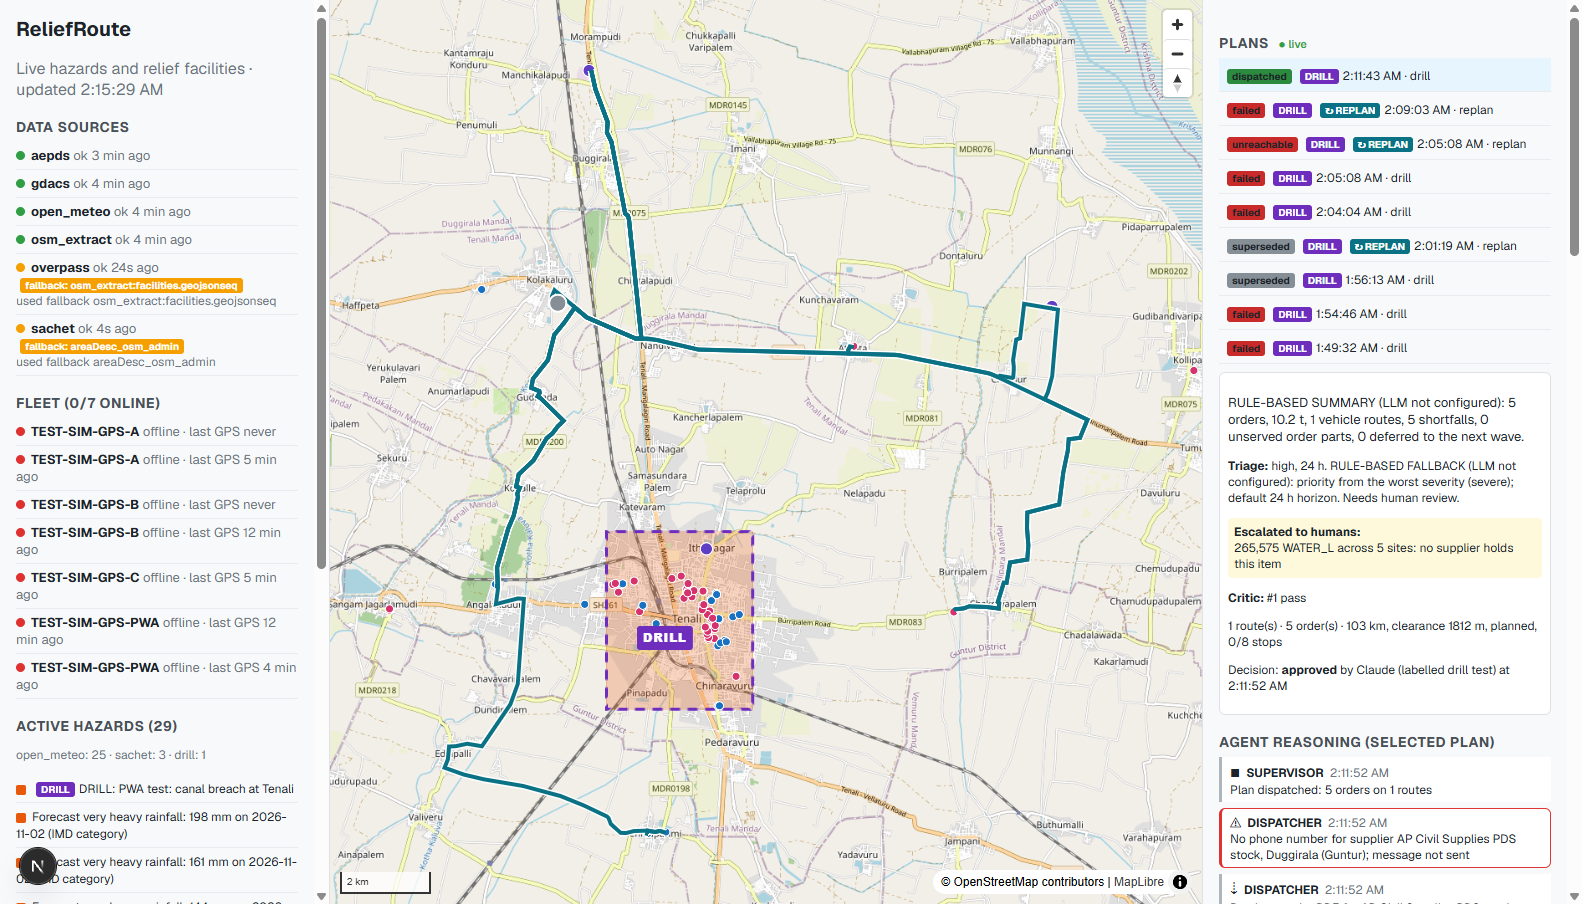
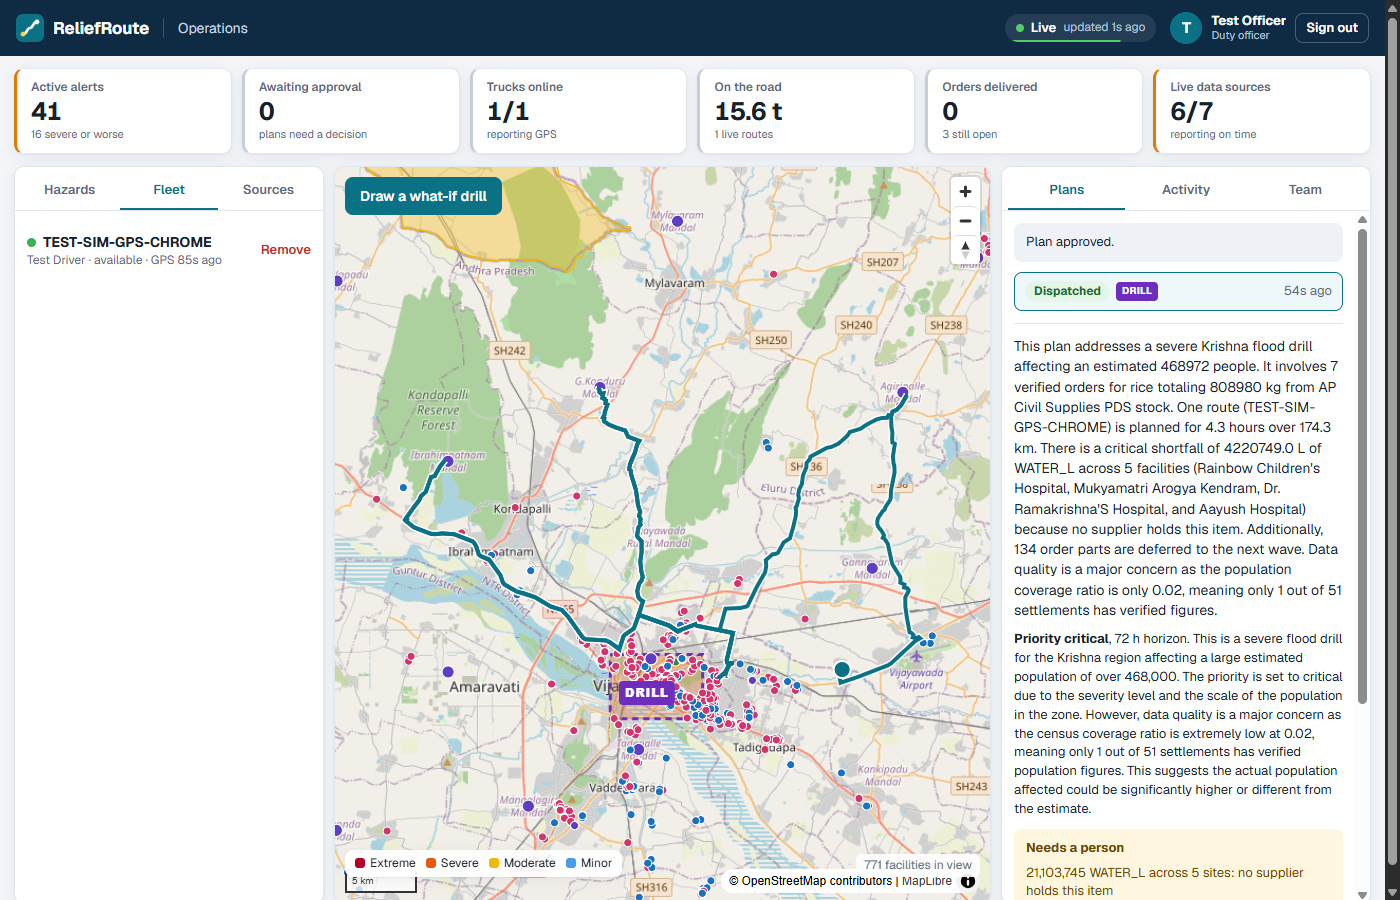
docs: new screenshot, demo script for the new screens, contract request 005

diff --git a/docs/demo-script.md b/docs/demo-script.md
@@ -12,30 +12,30 @@ Do this 30 minutes ahead.
 - [ ] **Sign up beforehand.** Create a duty officer and a driver account at `http://localhost:3000/signup`, with the codes in `infra/deploy/local.env`. `sim_driver` reads `ENROLMENT_CODE` from the environment.
 - [ ] **At least two vehicles online inside Andhra Pradesh**, for the reassign beat. Use real phones through a tunnel if a teammate is in the state; otherwise `sim_driver` (its vehicles are named `TEST-SIM-GPS`, so say so).
 - [ ] A real water check-in at `/supplier` from a supplier or teammate. Otherwise water shows as an escalated shortfall, which is honest but less impressive.
-- [ ] Rehearse one full drill, then cancel it.
-- [ ] Open three windows: dashboard, driver app on a phone, and a terminal.
+- [ ] Rehearse one full drill, then end it from its popup on the map.
+- [ ] Open three windows: the dashboard, `/driver` on a phone, and a terminal.
 
 ## The script
 
 **0:00 Live picture.** "This is Andhra Pradesh right now. These alerts come from NDMA's SACHET feed, GDACS and rainfall forecasts. The dots on the left show how fresh each source is. If one goes down it turns red and says so: we never fill in a gap with a guess."
 
-**0:20 Trigger.** Click *Draw drill zone*, draw a flood across the Krishna near Vijayawada, set severity *severe*, *Publish drill*. "Judges can draw any disaster. It's labelled DRILL, but it goes through exactly the same pipeline as a real alert."
+**0:20 Trigger.** Click *Draw a what-if drill*, click corners across the Krishna near Vijayawada, name it, set severity *severe*, and press *Publish*. "Judges can draw any disaster. It's labelled DRILL, but it goes through exactly the same pipeline as a real alert."
 
-**0:35 The swarm reasons.** Select the new plan and read the timeline as it fills. Point out:
+**0:35 The swarm reasons.** Open the *Activity* tab and read the steps as they appear. With Gemini this takes about a minute. Point out:
 - **Sentinel:** Gemini's triage, and that it flags low census coverage by itself.
 - **Needs:** real census population, scaled by how much of the mandal is under water. Sphere humanitarian standards turn that into litres and kilos.
 - **Procurement:** real government ration stock from AePDS, split across mandals. What can't be found is escalated, not invented.
 - **Route Planner and Critic:** OR-Tools solves the routes; Valhalla and Shapely prove they clear the hazard. "The LLM reasons. Solvers compute. No model ever produces a coordinate or a stock number."
 
-**1:05 Human in the loop.** Show the brief, then the reasons this needs approval. Type a name and press *Approve dispatch*. "The plan re-checks the world after you approve, so a stale approval can't send a truck into a flood."
+**1:05 Human in the loop.** On the *Plans* tab, select the plan and show the brief and what needs a person. Press *Approve dispatch*. "The record shows who signed in, not a typed name. And the plan re-checks the world after you approve, so a stale approval can't send a truck into a flood."
 
-**1:20 Dispatch.** The route appears on the map. On the phone, show the stops and press *Read instructions aloud* for the Telugu voice. Show the PO PDF if there's time. "Every step is idempotent. Press approve twice, kill the worker: nothing is sent twice."
+**1:20 Dispatch.** The route appears on the map. On the phone, show the stops and press *Read aloud* for the Telugu voice. The Telugu text arrives about a minute after the stops; the screen says so meanwhile. Show the PO PDF if there's time. "Every step is idempotent. Press approve twice, kill the worker: nothing is sent twice."
 
 **1:40 Closed loop.** Draw a second drill across the road ahead of the truck, or have the driver leave the route. Without anyone pressing anything, the timeline shows the Route Monitor detecting it and the Replanner sending a new route, and the phone announces it. "Goods already on the truck stay on it. It didn't ask for approval because these goods were already approved."
 
 **2:10 Driver offline.** Stop one vehicle's GPS. About five minutes later it's reassigned, so show a prepared example if time is short. "Goods still at the supplier go to another truck. Goods on the lost truck can't be replanned, so a human gets its last known position."
 
-**2:30 Break it.** In the terminal, `docker compose stop valhalla`, then trigger a plan. It stops with "routing service unavailable, so no route can be verified as safe". "It refuses to guess. In a disaster, a confident wrong route is the worst outcome." Restart Valhalla: `docker compose start valhalla`.
+**2:30 Break it.** With a truck online, run `docker stop reliefroute-prod-valhalla-1` in the terminal, then draw a drill. It stops with "routing service unavailable, so no route can be verified as safe". "It refuses to guess. In a disaster, a confident wrong route is the worst outcome." Then run `docker start reliefroute-prod-valhalla-1`.
 
 **2:50 Close.** "Live data, real stock, verified routes, a human in control, and it repairs itself."
 
@@ -46,13 +46,13 @@ Do this 30 minutes ahead.
 | No active real alerts | Normal. Use the drill; it runs the same pipeline |
 | SACHET returning 403 | It rate-limits. Alerts still appear, placed by area name with a *fallback* badge. Point at the badge: that's the design |
 | A source goes red | Say so. It's the "data stale" edge case, working |
-| Gemini overloaded | The fallback chain tries other models. If all fail, the plan continues with text labelled RULE-BASED and a required human review. Say so |
+| Gemini overloaded | Each call gives up after 45 seconds and tries the next model. If all fail, the plan continues with text labelled RULE-BASED and a required human review. Say so |
 | No Telugu voice on the phone | The phone has no Telugu speech pack. Show the Telugu text instead |
 | Plan stops at "no online vehicle" | GPS fixes are older than 2 minutes. Reopen the driver app or restart `sim_driver` |
 | Plan fails with "no census population" | The drill missed every settlement with a census tag. Draw it over a town |
 | Plan fails with "no safe relief point" | The drill is too large or too far from schools and shelters. Draw a smaller one |
 | Planning is slow | Valhalla or Gemini is slow. Talk through the timeline: it's progressing live |
-| Backend won't respond | Dashboard says "Backend unreachable". Run `.\infra\dev\stack.ps1 up`, which restarts everything, then reload |
+| Backend won't respond | The dashboard says "Cannot reach the server". Run `.\infra\dev\stack.ps1 prod`, which restarts everything, then reload |
 | Venue Wi-Fi fails | Phone tether. The stack runs locally; only live sources and Gemini need internet, and stale data is flagged rather than breaking |
 
 ## Questions judges may ask

diff --git a/docs/HANDOFF.md b/docs/HANDOFF.md
@@ -20,6 +20,7 @@ One worker carried both roles through Gates 3 and 4, on one integration branch w
 - **002** (`contracts/requests/A-plan-and-admin-views.md`): two read-only views, added as owner migrations.
 - **003** (`contracts/requests/A-security-hardening.md`): the access rules, new endpoints and limits. `openapi.yaml` does not describe these until it is applied.
 - **004** (`contracts/requests/B-accounts-and-one-web-app.md`): email accounts and the single web app.
+- **005** (`contracts/requests/B-email-links.md`): email confirmation and forgot-password.
 
 ## 2. Gate status
 
@@ -31,7 +32,7 @@ One worker carried both roles through Gates 3 and 4, on one integration branch w
 | 3 Closed loop and edge cases | 🟡 Built and proven live with labelled simulated vehicles |
 | 4 Polish, docs, deploy | 🟡 Docs done. Security reviewed and hardened. Production stack rehearsed end to end on this machine. Not deployed |
 
-Tests at the last run: **457 passed, 3 skipped** (SACHET rate-limiting this IP), on real PostGIS, Redis and Valhalla. PWA queue: 6 passed. Self-audit: 0 findings. Evidence is in `docs/gates/A-G3.md`, `docs/gates/A-G4-security.md` and `docs/gates/B-G5-web-app.md`.
+Tests at the last run: **473 tests passing**, with SACHET's live polygons included, on real PostGIS, Redis and Valhalla. PWA queue: 6 passed. Self-audit: 0 findings. Evidence is in `docs/gates/A-G3.md`, `docs/gates/A-G4-security.md` and `docs/gates/B-G5-web-app.md`.
 
 The local database holds live data only: this session's drills, plans and test vehicles were cleared. Their PO PDFs, labelled DRILL, remain in `~/reliefroute-data/documents/`.
 
@@ -39,17 +40,16 @@ The local database holds live data only: this session's drills, plans and test v
 
 | Item | Needs |
 |---|---|
-| Replans with a live LLM | Not run yet. Triage, plan briefs and Telugu translation have now run live on this machine, on 2026-10-31 |
 | Telugu voice on a phone | A real phone with a Telugu speech pack. The Telugu text itself is verified |
 | Real-phone GPS | A teammate **inside Andhra Pradesh**, through a tunnel. The road graph covers AP only, and vehicles over 200 km from the relief points are ignored |
 | Real water stock | A supplier check-in at `/supplier`. `infra/demo/seed_demo_water.py` was not run here; it stays labelled, and running it means disclosing it |
 | Deploy | A VM with 8 GB RAM and a domain name pointing at it. Then follow `docs/deploy.md`. No Vercel account is needed: the dashboard is now in the production stack |
 | SMS and WhatsApp | Twilio's key is valid, but it is a Trial account, which only reaches numbers verified with Twilio. No real message has gone out: drills send nothing by design |
-| Review contract requests 002, 003 and 004 |
+| Review contract requests 002 to 005 |
 | Merge into `main` | The human owner. Ideally a PR from `integration/gate3` |
 
 | FIRMS fire data | A valid MAP_KEY. NASA rejected the value in `infra/deploy/local.env`: real keys are 32 characters |
-| Email sending | A mail provider, to prove addresses and let people reset their own passwords |
+| Email delivery | An email provider's SMTP details in `.env` (see `docs/deploy.md`). The feature is built and works against a real SMTP server; only delivery through a real provider is untested |
 
 Once a real phone is verified, add the output to the gate reports and tag `phase2-*` and `phase3-*`.
 
@@ -91,6 +91,8 @@ Valhalla takes about 35 minutes to build on Windows, compared with 5 on macOS, b
 - **AePDS responses are about 50 MB** and can take minutes, one commodity at a time, every 6 h. 36 offices are still skipped and logged by name.
 - **Valhalla limits that matter:** 400 km per matrix pair, 2,500 pairs, 20 locations per route. `infra/valhalla/raise_limits.py` must run after a first build, or real hazard polygons are rejected.
 - **Next 16:** MapLibre's worker is copied to `frontend/public/maplibre` on `npm install`. Don't remove that step.
+- **Browser tests** are in `frontend/tests/e2e`. Run `npm run test:e2e` in `frontend`, with `OPERATOR_TOKEN` and `ENROLMENT_CODE` set. `E2E_ROUTING=1` adds the drill, and `E2E_MAILPIT_URL` adds email. CI runs them without the road map.
+- **Next keeps the page you left mounted but hidden,** so a test can find two of the same field. Use `locator("visible=true")`.
 - **Simulated vehicles** come from `backend/tests/tools/sim_driver.py` and are always named `TEST-SIM-GPS`. It never runs at runtime. Set `ENROLMENT_CODE` first. Above about 500 m/s it jumps past the 300 m arrival circle and never reaches a stop.
 - **Auto-plans need a settlement.** An alert gets a plan only once it is active and covers a place in `v_places`, and it waits while facilities are loading. Drills always get one.
 - **Drills are silent.** They record each message as not sent, even with Twilio configured, unless `DRILL_SEND_MESSAGES=true`.

diff --git a/docs/gates/B-G5-web-app.md b/docs/gates/B-G5-web-app.md
@@ -43,9 +43,33 @@ A plan took about a minute to reach approval, because the fallback chain worked 
 4. **A sleeping phone stops sending GPS.** The driver screen now keeps the screen awake.
 5. **Langfuse refused every trace.** It no longer takes the old format, and said so inside a 207 response that looked like success. The tracer now sends OpenTelemetry and notices refusals. A real trace was written through the app's tracer and read back from Langfuse.
 
+## Finishing the remaining work
+
+All 473 tests pass, on real PostGIS, Redis and Valhalla, with SACHET's live polygons included. The last full run was 471 of 473; both failures were mistakes in new tests, fixed and re-run with their files.
+
+**A replan with live Gemini, for the first time.** A truck left its route for Narasaraopet, on land and 70 km from the route. The replan finished in 48 seconds with no human, and the new route reached the driver with Telugu instructions.
+
+```
+17:52:39 replanner  off route: 5 order(s) to re-route, 0 line(s) stranded on the vehicle
+17:52:45 critic     Attempt 1: PASS (1 hazards checked, clearance >= 100 m, capacity and horizon OK)
+17:52:51 supervisor LLM plan brief (gemini-3-flash-preview)
+17:52:51 supervisor Auto-approved: re-route of goods already approved
+17:53:01 dispatcher Translated instructions for TEST-SIM-GPS-LLM-A into Telugu (numbers verified)
+```
+
+**Faster planning.** A retired Gemini model is dropped for good, one that failed rests for 2 minutes, and a call gives up after 45 seconds. A plan then carries on with the labelled rule-based step.
+
+**Email.** Address confirmation and forgot-password work over standard SMTP, and stay off until a provider is set. The whole journey passed in real Chrome against a real SMTP server (Mailpit), on the production images.
+
+**Browser tests in the repo.** `frontend/tests/e2e` covers a stranger being refused, sign-in, the 5-second refresh, email, and a drill reaching the phone. CI runs all but the drill, which needs the road map.
+
+**The demo's outage moment was false.** With the road service stopped, a plan said "no supplier has reachable stock". It now stops with "routing service unavailable, so no route can be verified as safe".
+
+**A worker could shut itself down by mistake.** After a dropped connection, the old session can hold its lock for a moment, and the worker took that for a rival. It now checks several times first. Its test also took reconnecting to mean it had the lock, and now waits for the lock itself. The whole file then passed 5 runs in a row. The earlier intermittent failure was not captured, so that cause is likely rather than proven.
+
 ## Not verified
 
-- **Sending email.** No mail provider is set up, so addresses are not proven. See [security.md](../security.md).
+- **Email through a real provider.** It works against a real SMTP server, but no provider is set up, so real delivery and spam handling are untested.
 - **A real phone.** The driver screen ran in Chrome with a phone-sized window and an emulated location.
 - **Telugu voice.** The text is verified; speech depends on the phone.
 - **Twilio sending.** The key is valid, but it is a Trial account, which can only message numbers verified with Twilio. Drills send nothing by design, so no real message has gone out.

diff --git a/docs/deploy.md b/docs/deploy.md
@@ -9,7 +9,7 @@ Budget about an hour the first time, most of it building the map data. Copying t
 - A VM with **8 GB of RAM**, 40 GB of disk and Ubuntu 24.04, or similar.
 - A **domain name** you can point at it. Phones only give GPS over HTTPS, so an IP address will not do.
 - A **Gemini API key**. Without one the system still runs, on labelled rule-based steps, but drivers get English instructions.
-- Optional: Twilio keys for SMS and WhatsApp, Langfuse keys for tracing, a FIRMS key for fire data.
+- Optional: Twilio keys for SMS and WhatsApp, Langfuse keys for tracing, a FIRMS key for fire data, and an email provider's SMTP details.
 
 ## Steps
 
@@ -76,6 +76,20 @@ Sign up first at `/signup` as a duty officer, using `OPERATOR_TOKEN` as the code
 **6. Keep it safe**
 
 Copy the `backups` volume off the VM on a schedule. [security.md](security.md) covers what to do if a phone is lost, a token leaks or the database must be restored.
+
+## Turning on email
+
+Any provider's SMTP works: Resend, SendGrid, Amazon SES, or a Gmail app password. Add these to `infra/deploy/.env`, then run `up -d`:
+
+```
+SMTP_HOST=smtp.your-provider.com
+SMTP_PORT=587
+SMTP_USER=...
+SMTP_PASSWORD=...
+MAIL_FROM=ReliefRoute <relief@your-domain>
+```
+
+New accounts then get a link to confirm their address, and *Forgot your password?* emails a reset link. Until then, a duty officer makes reset links in the Team tab. Most providers ask you to verify the sending domain first.
 
 ## Updating
 

diff --git a/docs/security.md b/docs/security.md
@@ -100,7 +100,7 @@ The restore replaces what is there. `migrate` puts the service role's access bac
 
 ## What is not covered
 
-- **Email addresses are not proven.** No mail provider is set up, so an address is only what the person typed, and a forgotten password is reset by a one-time link that a duty officer creates in the Team tab and passes on. Connect a provider before relying on email as identity. A signed-in approval does record the account that made it.
+- **Email stays off until a provider is set.** Until then an address is only what the person typed, and a forgotten password is reset by a one-time link that a duty officer makes in the Team tab. With a provider, people confirm their address and reset their own password. Confirming is recorded, not required: the codes are what control access. Forgot-password answers the same whether or not an account exists.
 - **The supplier portal is open to anyone.** That is deliberate, so a real supplier can check in during a disaster. Limits and the unverified flag contain it, but fake entries can still appear for a human to reject.
 - **GPS can be faked by a registered phone.** The token proves which phone is reporting, not where it is.
 - **WhatsApp replays.** Twilio's signature has no timestamp, so a captured message could be resent. It only repeats the same stock figures.

diff --git a/contracts/requests/B-email-links.md b/contracts/requests/B-email-links.md
@@ -1,0 +1,18 @@
+# Contract change 005: email confirmation and forgot-password
+
+**Status: PENDING human review.** Implemented in owner code and migration 205, building on request 004. Nothing under `contracts/` changed except this file. All of it stays off until `SMTP_HOST` and `MAIL_FROM` are set.
+
+## Changes to apply to `openapi.yaml`
+
+| Endpoint | Auth | Purpose |
+|---|---|---|
+| `GET /api/auth/options` | Public | Says whether email is on, so the screens can offer the right help |
+| `POST /api/auth/forgot` | Public | `202` whether or not the account exists. Emails a one-time reset link |
+| `POST /api/auth/verify` | One-time link | Confirms an address |
+
+`GET /api/accounts` gains `email_verified`.
+
+## Who is affected
+
+- **Database:** migration 205 adds `accounts.email_verified_at` and a private `email_checks` table.
+- **Settings:** optional `SMTP_HOST`, `SMTP_PORT`, `SMTP_USER`, `SMTP_PASSWORD`, `MAIL_FROM` and `PUBLIC_URL`.

diff --git a/README.md b/README.md
@@ -6,7 +6,7 @@ Built for a Gen-AI buildathon (Theme 2: Climate, Resource Infrastructure & Globa
 
 **LLMs reason, solvers compute.** Gemini triages alerts, briefs the human and translates driver instructions. OR-Tools plans the routes and Shapely verifies them. The LLM never supplies a coordinate, distance or stock figure.
 
-![Dashboard: a planned route bending around a flood drill at Tenali, with the agent timeline and approval panel](docs/images/dashboard.png)
+![The operations dashboard: live numbers, a dispatched route around a flood drill at Vijayawada, and the plan's brief](docs/images/dashboard.png)
 
 ## How it works
 
